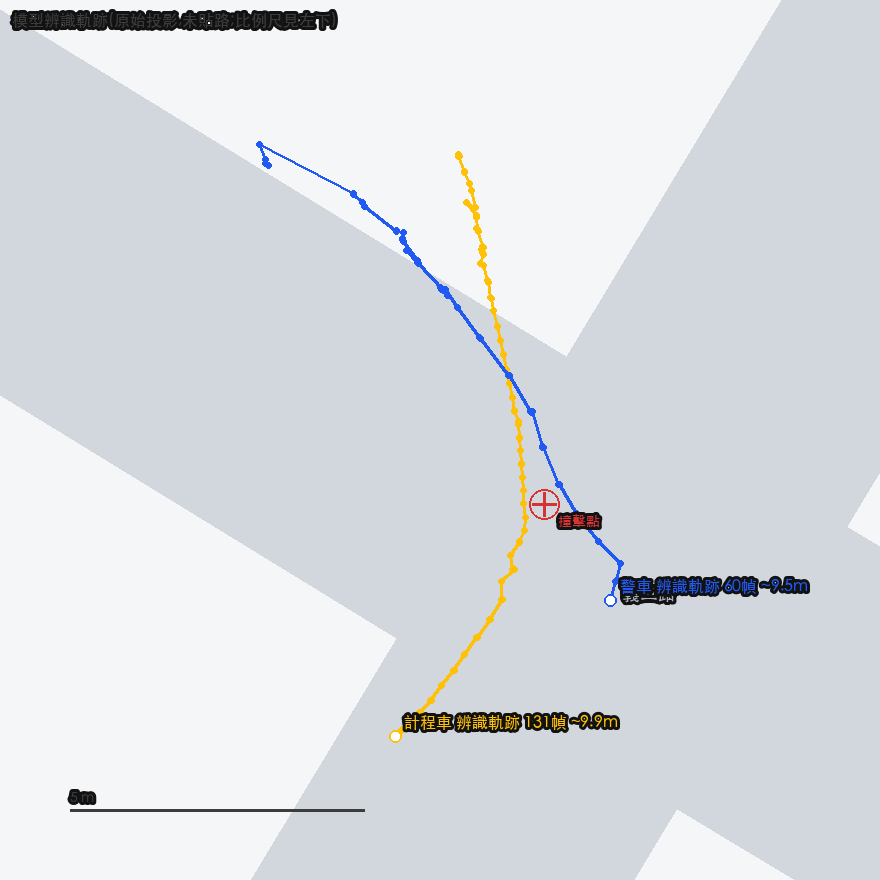
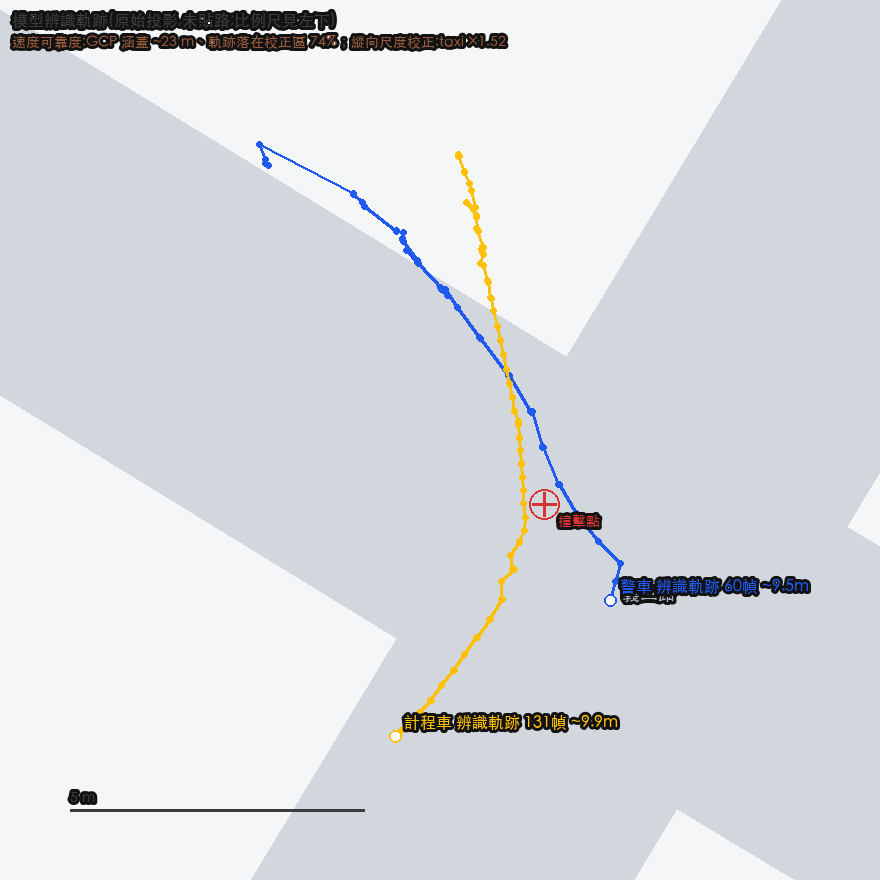
docs(readme): refresh results for all six scenes, add missing LICENSE
The results section showed four scenes with images rendered 2026-06-26,
predating both the recalibrations and the unconditional-smoothing fix.
Refresh all four from the current data/ renders and add the two scenes that
scene_config has carried since: 宜蘭市娃娃車 and BMW 神之鬼切.

Report GCP span alongside residual for every scene. Residual measures
calibration fit, not speed accuracy -- a track calibrated over a narrow GCP
span shows a flattering residual while its speed is badly underestimated,
which is exactly the BMW scene (mean 0.33 m, the smallest here, over a span
of only ~20 m). Drop the "most accurate" label from taoyuan accordingly, and
correct pre_impact's residual to the recalibrated 2.98 m (was 3.20 m).

Describe the refinement pipeline in its current order (anchor -> guard ->
smooth -> gap fill -> smooth) and list trajectory_smoothing.py in the tree.

Add LICENSE.md: the README linked to it and pyproject declares MIT, but the
file never existed.

diff --git a/README.md b/README.md
@@ -12,11 +12,16 @@
 
 ```
 影片 → ① 場景設定 → ② GCP 校正（像素↔經緯度單應矩陣）
-      → ③ 框選車輛 → ④ SAM2 追蹤 → ⑤ 投影 + 撞擊偵測 + 道路對齊
+      → ③ 框選車輛 → ④ SAM2 追蹤 → ⑤ 投影 + 撞擊偵測 + 軌跡精修 + 道路對齊
       → ⑥ 輸出 KML / CSV / 地圖圖片
 ```
 
-速度與位置以這條 2D homography 管線為準；其餘（軌跡精修、3D 場景、前端）都是圍繞它的呈現。
+其中步驟 ⑤ 的軌跡精修本身是一條子管線，順序為
+**在地輪廓 anchor → 峰值速度守門 → Kalman-RTS 平滑 → 空缺補值 → 再平滑**；
+平滑是**無條件**執行的最後一段，不隨 anchor 修正成功與否而被跳過
+（見 [`docs/TRAJECTORY_SMOOTHING.md`](docs/TRAJECTORY_SMOOTHING.md)）。
+
+速度與位置以這條 2D homography 管線為準；其餘（3D 場景、前端）都是圍繞它的呈現。
 
 ---
 
@@ -24,15 +29,15 @@
 
 本 repo 是「一條 2D 管線 + 圍繞它的呈現層」。各部分與其詳細文件：
 
-| 部分 | 做什麼 | 程式 | 詳細文件 |
-|---|---|---|---|
-| **2D 重建管線** | 影片 → 追蹤 → 投影 → 撞擊/對齊 → KML/CSV/圖 | `accident_reconstruction/` | [`docs/README.md`](docs/README.md)、[`ACCIDENT_2D_RECONSTRUCTION.md`](docs/ACCIDENT_2D_RECONSTRUCTION.md) |
-| **Web 工作台** | 五步驟 UI 收整條管線，磁碟讀結果 | `web_app.py` | [`docs/README.md`](docs/README.md) §工作台 |
-| **軌跡精修** | 在地輪廓 anchor、Kalman-RTS 平滑、空缺補值、Stage-2 疊加影片 | `ground_footprint.py`、`trajectory_smoothing.py`、`auto_reconstruct.py` | [`docs/summary.md`](docs/summary.md)、[`TRAJECTORY_SMOOTHING.md`](docs/TRAJECTORY_SMOOTHING.md) |
-| **車速校正**（Path A） | 方向感知的縱向尺度校正（後視誠實棄權） | `auto_reconstruct.py` | [`docs/summary.md`](docs/summary.md) §車速 |
-| **3D 場景重建** | 深度 splat 背景 + CAD 路面模型 | `depth_backdrop.py`、`self_calibration.py`※ | [`docs/3D_RECONSTRUCTION.md`](docs/3D_RECONSTRUCTION.md) |
-| **前端 3D 檢視器** | Three.js/R3F 回放軌跡＋底圖（OSM/Google tiles/splat） | `frontend/` | [`frontend/README.md`](frontend/README.md)、[`SPLAT_NOTES.md`](frontend/SPLAT_NOTES.md) |
-| **資料交換格式** | `reconstruction.json` schema（給前端） | — | [`docs/frontend_api.md`](docs/frontend_api.md) |
+| 部分                   | 做什麼                                                                             | 程式                                                                    | 詳細文件                                                                                                  |
+| ---------------------- | ---------------------------------------------------------------------------------- | ----------------------------------------------------------------------- | --------------------------------------------------------------------------------------------------------- |
+| **2D 重建管線**        | 影片 → 追蹤 → 投影 → 撞擊/對齊 → KML/CSV/圖                                        | `accident_reconstruction/`                                              | [`docs/README.md`](docs/README.md)、[`ACCIDENT_2D_RECONSTRUCTION.md`](docs/ACCIDENT_2D_RECONSTRUCTION.md) |
+| **Web 工作台**         | 五步驟 UI 收整條管線，磁碟讀結果                                                   | `web_app.py`                                                            | [`docs/README.md`](docs/README.md) §工作台                                                                |
+| **軌跡精修**           | 在地輪廓 anchor → 峰值守門 → Kalman-RTS 平滑 → 空缺補值 → 再平滑、Stage-2 疊加影片 | `ground_footprint.py`、`trajectory_smoothing.py`、`auto_reconstruct.py` | [`docs/summary.md`](docs/summary.md)、[`TRAJECTORY_SMOOTHING.md`](docs/TRAJECTORY_SMOOTHING.md)           |
+| **車速校正**（Path A） | 方向感知的縱向尺度校正（後視誠實棄權）                                             | `auto_reconstruct.py`                                                   | [`docs/summary.md`](docs/summary.md) §車速                                                                |
+| **3D 場景重建**        | 深度 splat 背景 + CAD 路面模型                                                     | `depth_backdrop.py`、`self_calibration.py`※                             | [`docs/3D_RECONSTRUCTION.md`](docs/3D_RECONSTRUCTION.md)                                                  |
+| **前端 3D 檢視器**     | Three.js/R3F 回放軌跡＋底圖（OSM/Google tiles/splat）                              | `frontend/`                                                             | [`frontend/README.md`](frontend/README.md)、[`SPLAT_NOTES.md`](frontend/SPLAT_NOTES.md)                   |
+| **資料交換格式**       | `reconstruction.json` schema（給前端）                                             | —                                                                       | [`docs/frontend_api.md`](docs/frontend_api.md)                                                            |
 
 ※ CAD 線在未併入的 branch `accident-scene-cad-modeling-5aaa03` 上，見 3D 文件。
 
@@ -45,35 +50,60 @@
 
 ## 實際成果
 
-四個場景的重建輸出如下。圖為**抽象軌跡圖（不含任何事故畫面）**：彩色線為各車的辨識軌跡、
-🔴 為撞擊點，標註含速度與經緯度。每幀經緯度／速度另有 CSV、軌跡另有可疊 Google My Maps 的
-KML（皆在 `data/`，不入庫）。各場景的來源、校正方法與殘差見 [`docs/DATA.md`](docs/DATA.md)。
+六個場景的重建輸出如下。圖為**抽象軌跡圖（不含任何事故畫面）**：彩色線為各車的辨識軌跡、
+⊕ 為撞擊點，圖頂標註該場景的**速度可靠度**（GCP 涵蓋範圍、軌跡落在校正區的比例）。
+每幀經緯度／速度另有 CSV、軌跡另有可疊 Google My Maps 的 KML（皆在 `data/`，不入庫）。
+前四個場景的來源、校正方法與殘差見 [`docs/DATA.md`](docs/DATA.md)。
 
 > 來源為公開 YouTube 車禍影片，**僅列連結、影片不入庫**（檔大且有版權）。
+
+**殘差看的是校正準度，不是速度準度。** 速度＝homography 量得的距離／時間，只有在 GCP
+真實涵蓋整段行車路線時才可靠；GCP 擠在小範圍時殘差會很漂亮，車速卻被嚴重低估
+（下表因此並列 GCP 涵蓋範圍，詳見 [`docs/summary.md`](docs/summary.md)）。
 
 <table>
   <tr>
     <td width="50%" valign="top">
       <img src="docs/assets/result_keelung_recognized.png" alt="基隆 辨識軌跡" /><br/>
-      <b>基隆 信五路 × 義二路</b>（警車 × 計程車）· 辨識軌跡＋比例尺<br/>
-      殘差 mean <b>0.69 m</b> · <a href="https://m.youtube.com/watch?v=REwQUfTaDMc&ra=m">來源影片</a>
+      <b>基隆 信五路 × 義二路</b>（警車 × 計程車）<br/>
+      殘差 mean <b>0.69 m</b> / max 1.96 m · GCP 涵蓋 ~23 m（8 點）<br/>
+      <a href="https://m.youtube.com/watch?v=REwQUfTaDMc&ra=m">來源影片</a>
     </td>
     <td width="50%" valign="top">
       <img src="docs/assets/result_yilan_recognized.png" alt="宜蘭五結 辨識軌跡" /><br/>
-      <b>宜蘭五結 無號誌路口</b>（小貨車 × 機車 × 行人）· 辨識軌跡＋比例尺<br/>
-      殘差 mean <b>0.69 m</b> · <a href="https://m.youtube.com/watch?v=7xQGDASAMEg">來源影片</a>
+      <b>宜蘭五結 無號誌路口</b>（小貨車 × 機車 × 行人）<br/>
+      殘差 mean <b>0.69 m</b> / max 1.76 m · GCP 涵蓋 ~31 m（8 點）<br/>
+      <a href="https://m.youtube.com/watch?v=7xQGDASAMEg">來源影片</a>
     </td>
   </tr>
   <tr>
     <td width="50%" valign="top">
       <img src="docs/assets/result_taoyuan_recognized.png" alt="桃園楊梅 辨識軌跡" /><br/>
-      <b>桃園楊梅 高鐵南路七段</b>（違規左轉）· 辨識軌跡＋比例尺<br/>
-      殘差 mean <b>0.43 m</b>（最準）· <a href="https://m.youtube.com/watch?v=naWS5Jhd6Yk">來源影片</a>
+      <b>桃園楊梅 高鐵南路七段</b>（違規左轉）<br/>
+      殘差 mean <b>0.43 m</b> / max 0.77 m · GCP 涵蓋 ~16 m（10 點，範圍偏小）<br/>
+      <a href="https://m.youtube.com/watch?v=naWS5Jhd6Yk">來源影片</a>
     </td>
     <td width="50%" valign="top">
       <img src="docs/assets/result_pre_impact_recognized.png" alt="台南永康 辨識軌跡" /><br/>
-      <b>台南永康 自強路 × 高速一街二段</b>（汽車 × 機車）· 辨識軌跡＋比例尺<br/>
-      殘差 mean <b>3.20 m</b>（魚眼廣角）· <a href="https://m.youtube.com/watch?v=x_u9wGClKLQ">來源影片</a>
+      <b>台南永康 自強路 × 高速一街二段</b>（汽車 × 機車）<br/>
+      殘差 mean <b>2.98 m</b> / max 6.63 m（魚眼廣角，殘差最大）· GCP 涵蓋 ~29 m（15 點）<br/>
+      <a href="https://m.youtube.com/watch?v=x_u9wGClKLQ">來源影片</a>
+    </td>
+  </tr>
+  <tr>
+    <td width="50%" valign="top">
+      <img src="docs/assets/result_yilan_kindergarten_recognized.png" alt="宜蘭市 娃娃車 辨識軌跡" /><br/>
+      <b>宜蘭市 娃娃車 × 自小客車</b><br/>
+      殘差 mean <b>0.95 m</b> / max 2.22 m · GCP 涵蓋 <b>~66 m</b>（13 點，涵蓋最廣，
+      MAGSAC++ 12/13 內點＋去畸變 k1=-0.15）<br/>
+      <a href="https://youtu.be/vWBe0TbZFNQ">來源影片</a>
+    </td>
+    <td width="50%" valign="top">
+      <img src="docs/assets/result_bmw_recognized.png" alt="BMW 神之鬼切 辨識軌跡" /><br/>
+      <b>臺北市大安區 基隆路四段</b>（BMW「神之鬼切」，汽車 × 機車）<br/>
+      殘差 mean <b>0.33 m</b> / max 0.67 m · GCP 涵蓋 <b>僅 ~20 m</b>（15 點）——
+      殘差最小但涵蓋最窄，<b>車速應偏低估</b>，此場景以軌跡形狀為主要參考<br/>
+      本場景另有 3D 重建，見 <a href="docs/3D_RECONSTRUCTION.md">docs/3D_RECONSTRUCTION.md</a>
     </td>
   </tr>
 </table>
@@ -141,8 +171,9 @@ uv run pre-commit install
 ```
 accident_reconstruction/   可 import 的核心 pipeline 套件（2D 重建 + 軌跡精修 + 3D splat 背景）
   ├ prompt_track_accident.py   Stage 1：SAM2 追蹤 → anchors + 接地輪廓
-  ├ auto_reconstruct.py        Stage 2：投影 + 撞擊 + 軌跡精修 + 疊加影片
-  ├ ground_footprint.py        在地 anchor / 平滑 / 空缺補值
+  ├ auto_reconstruct.py        Stage 2：投影 + 撞擊 + 軌跡精修編排 + 疊加影片
+  ├ ground_footprint.py        在地輪廓 anchor / 空缺補值
+  ├ trajectory_smoothing.py    等加速 Kalman + RTS 平滑、jerk 驗收指標
   ├ depth_backdrop.py          3D 深度 splat 背景（線 A）
   └ web_app.py                 Web 工作台（FastAPI）
 frontend/                  Three.js/R3F 3D 檢視器（回放軌跡；SPLAT_NOTES.md / SCENE_NOTES.md）

diff --git a/LICENSE.md b/LICENSE.md
@@ -1,0 +1,21 @@
+MIT License
+
+Copyright (c) 2026 adawang
+
+Permission is hereby granted, free of charge, to any person obtaining a copy
+of this software and associated documentation files (the "Software"), to deal
+in the Software without restriction, including without limitation the rights
+to use, copy, modify, merge, publish, distribute, sublicense, and/or sell
+copies of the Software, and to permit persons to whom the Software is
+furnished to do so, subject to the following conditions:
+
+The above copyright notice and this permission notice shall be included in all
+copies or substantial portions of the Software.
+
+THE SOFTWARE IS PROVIDED "AS IS", WITHOUT WARRANTY OF ANY KIND, EXPRESS OR
+IMPLIED, INCLUDING BUT NOT LIMITED TO THE WARRANTIES OF MERCHANTABILITY,
+FITNESS FOR A PARTICULAR PURPOSE AND NONINFRINGEMENT. IN NO EVENT SHALL THE
+AUTHORS OR COPYRIGHT HOLDERS BE LIABLE FOR ANY CLAIM, DAMAGES OR OTHER
+LIABILITY, WHETHER IN AN ACTION OF CONTRACT, TORT OR OTHERWISE, ARISING FROM,
+OUT OF OR IN CONNECTION WITH THE SOFTWARE OR THE OTHER DEALINGS IN THE
+SOFTWARE.
